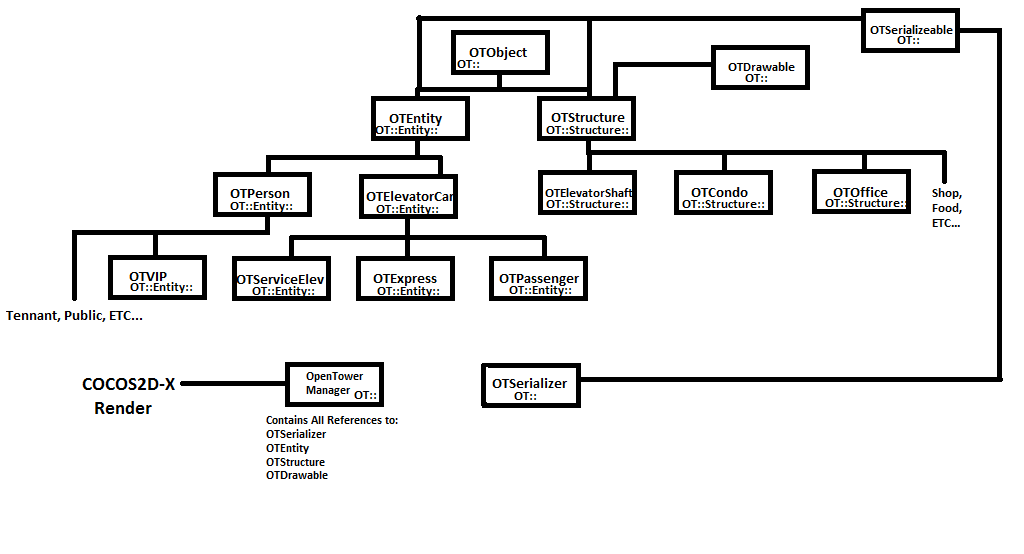
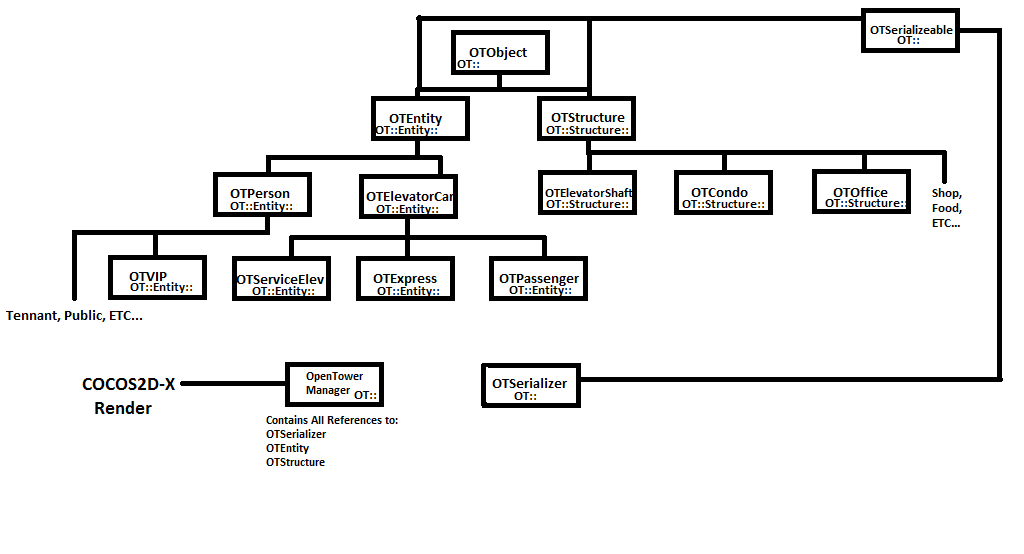
Added base logic for creating structures in sim and render

Changed region(s): [[0.5938, 0.0614, 0.8125, 0.1841], [0.25, 0.8285, 0.3125, 0.8899]]

diff --git a/Classes/TowerScene.cpp b/Classes/TowerScene.cpp
@@ -1,5 +1,4 @@
 #include "TowerScene.h"
-#include "MainMenuScene.h"
 
 USING_NS_CC;
 
@@ -46,23 +45,38 @@ bool Tower::init()
 	this->initTower();
     this->initMouse();
     this->scheduleUpdate();
-
-	//this->runAction(CCFollow::create(_mouseLayer,Rect::ZERO));
     
     return true;
 }
 
-void Tower::update(float delta){
-    
+void Tower::update(float delta)
+{
+	OT::OpenTowerManager::sharedTowerManager()->update(delta);
 }
 
+void Tower::createStructure(Vec2 position)
+{
+	//PROTOTYPE
+	//
+	//Vec2 p = convertFromTowerSceneToTowerLayer(position)
+	//
+	//OT::OpenTowerManager::sharedTowerManager()->addStructure(_currentStructure,p);
+	//
+	//_towerLayer->createObject(type,location)
+}
 
+cocos2d::Vec2 Tower::convertFromTowerSceneToTowerLayer(Vec2 location)
+{
+	//TODO - logic
+	return Vec2::ZERO;
+}
 
 void Tower::initToolPanal()
 {
 	Size visibleSize = Director::getInstance()->getVisibleSize();
 
 	_toolPanalLayer = ToolPanalLayer::create();
+	_toolPanalLayer->setTowerScene(this);
 	_toolPanalLayer->setPosition(visibleSize.width/2,visibleSize.height/2);
     this->addChild(_toolPanalLayer, 9);
 }
@@ -89,8 +103,7 @@ void Tower::initMouse()
     
     this->getEventDispatcher()->addEventListenerWithSceneGraphPriority(tlistener, this);
     
-    _currentStructure = SOFFICE;//tmp - I only have the office structure made atm
-    
+    _currentStructure = SOFFICE;
     _currentStructureSize = getSizeForStructure(_currentStructure);
     
     _mouseLayer = MouseLayer::create();
@@ -99,10 +112,14 @@ void Tower::initMouse()
     this->addChild(_mouseLayer, 10);
 }
 
-void Tower::toolPanalCallback(CCObject *sender)
+void Tower::toolPanalCallback(OTType type)
 {
-	//_currentStructure = type;
-	//_currentStructureSize = getSizeForStructure(_currentStructure);
+	_currentStructure = type;
+	_currentStructureSize = getSizeForStructure(_currentStructure);
+
+	//this->createStructure(_mouseLayer->getPosition());
+
+	CCLOG("TYPE %d",type);
 }
 
 void Tower::onMouseMove(cocos2d::Event* _event)
@@ -119,7 +136,6 @@ void Tower::onMouseMove(cocos2d::Event* _event)
 		_toolPanalLayer->setPosition(Vec2(mPPX-_windowOffsetX,mPPY-_windowOffsetY));
 	}
 
-
     _mouseLayer->setPosition(e->getCursorX()-_currentStructureSize.width/2, _mouseYOffset + e->getCursorY() - _currentStructureSize.height/2);
 }
 void Tower::onMouseUp(cocos2d::Event* _event)
@@ -130,17 +146,16 @@ void Tower::onMouseUp(cocos2d::Event* _event)
 	if(_isMovingToolPanal == true)
 	{
 		_isMovingToolPanal = false;
+
+		return; //if we are moving a window, we dont want to build things!
 	}
-	
-    /* *PROTO*
-     
-     auto manager OpenTowerManager::sharedManager()
-     
-     position = create sprite
-     
-     manager->createStructure(type, positin)
-     
-     */
+
+	float mPPY = e->getCursorY()+_mouseYOffset;
+	float mPPX = e->getCursorX();
+	Vec2 towerP = _towerLayer->getPosition();
+
+	CCLOG("TOWER: (%f, %f) MOUSE: (%f, %f)",towerP.x,towerP.y,mPPX,mPPY);
+
 }
 void Tower::onMouseDown(cocos2d::Event* _event)
 {
@@ -159,9 +174,8 @@ void Tower::onMouseDown(cocos2d::Event* _event)
 			_windowOffsetX = mPPX - tPP.x;
 			_windowOffsetY = mPPY - tPP.y;
 		}
-
-
 }
+
 void Tower::onMouseScroll(cocos2d::Event* _event)
 {
 	EventMouse* e = (EventMouse*)_event;

diff --git a/Classes/OpenTowerManager.h b/Classes/OpenTowerManager.h
@@ -10,7 +10,7 @@
 #include "cocos2d.h"
 #include "OTStructure.h"
 #include "OTEntity.h"
-#include "OTDrawable.h"
+
 
 USING_NS_OT_BEGIN
 
@@ -20,16 +20,21 @@ public:
     ~OpenTowerManager();
     
     static OpenTowerManager* sharedTowerManager();
+	static OTTime inGameTimeOfDay;
     
     void addStructure(OTType type, cocos2d::Vec2 position);
     void removeStructure(OTType type, cocos2d::Vec2 position);
     
+	size_t hash(const char* str);
+
+	void update(float delta);
+
 private:
     static OpenTowerManager* _tower;
     
-    static std::map<cocos2d::Vec2, Structure::OTStructure> structureRegistry;
-    static std::map<OTType, Entity::OTEntity> entityRegistry;
-    static std::vector<OTDrawable> drawableRegistry;
+    static std::map<size_t, Structure::OTStructure> structureRegistry;
+    static std::map<size_t, Entity::OTEntity> entityRegistry;
+
 };
 
 USING_NS_OT_END

diff --git a/Classes/TowerScene.h b/Classes/TowerScene.h
@@ -5,7 +5,10 @@
 #include "MouseLayer.h"
 #include "TowerLayer.h"
 #include "ToolPanalLayer.h"
+#include "MainMenuScene.h"
+
 #include "OTMacros.h"
+#include "OpenTowerManager.h"
 
 class Tower : public cocos2d::Layer
 {
@@ -18,14 +21,15 @@ public:
     
     // a selector callback
     void menuCloseCallback(cocos2d::Ref* pSender);
-	void toolPanalCallback(cocos2d::CCObject *sender);
+	void toolPanalCallback(OTType type);
 
 	void onMouseMove(cocos2d::Event* _event);
 	void onMouseUp(cocos2d::Event* _event);
 	void onMouseDown(cocos2d::Event* _event);
 	void onMouseScroll(cocos2d::Event* _event);
 
-	
+	void createStructure(cocos2d::Vec2 position);
+	cocos2d::Vec2 convertFromTowerSceneToTowerLayer(cocos2d::Vec2 location);
     
     void update(float delta);
     

diff --git a/Classes/ToolPanalLayer.cpp b/Classes/ToolPanalLayer.cpp
@@ -36,19 +36,15 @@ bool ToolPanalLayer::init(){
     
     return true;
 }
-//void ToolPanalLayer::setTowerScene(Tower* tower)
-//{
-//	this->_tower = tower;
-//}
+void ToolPanalLayer::setTowerScene(cocos2d::Layer* tower)
+{
+	this->_tower = tower;
+}
 void ToolPanalLayer::officeCallback(cocos2d::Ref* pSender)
 {
-	//_tower->toolPanalCallback(SOFFICE);
-	
-	/*CCObject* o = new CCObject();
-	o->autorelease();
-
-	CCCallFuncND *callBack = CCCallFuncO::create(Tower, callfuncO_selector(Tower::toolPanalCallback),o);*/
-
+	//had to hack Tower in this way - cannot include Tower.h in this class' header
+	Tower* t = (Tower*)_tower;
+	t->toolPanalCallback(SOFFICE);
 }
 
 void ToolPanalLayer::draw(cocos2d::Renderer *renderer, const cocos2d::Mat4 &transform, uint32_t flags)

diff --git a/Classes/TowerLayer.cpp b/Classes/TowerLayer.cpp
@@ -24,10 +24,24 @@ bool TowerLayer::init(){
     
     sprite->setPosition(Vec2(0,0));
 	this->addChild(sprite);
+	this->scheduleUpdate();
     
     return true;
 }
 
+void TowerLayer::update(float delta){
+
+    //READ from  OT::OpenTowerManager::sharedTowerManager()->inGameTimeOfDay, adjust sprites accordingly
+
+	//TODO - how to store and manage sprites
+	//map with OT::OpenTowerManager::sharedTowerManager()->hash() and sprite?
+}
+
+void TowerLayer::createObject(OTType t, Vec2 location)
+{
+	//create animated sprite here
+	CCLog("");
+}
 
 void TowerLayer::draw(cocos2d::Renderer *renderer, const cocos2d::Mat4 &transform, uint32_t flags)
 {

diff --git a/Classes/OpenTowerManager.cpp b/Classes/OpenTowerManager.cpp
@@ -23,6 +23,12 @@ OpenTowerManager* OpenTowerManager::sharedTowerManager()
     return _tower;
 }
 
+void OpenTowerManager::update(float delta)
+{
+	
+	//WRITE/UPDATE inGameTimeOfDay here
+}
+
 void OpenTowerManager::addStructure(OTType type, cocos2d::Vec2 position)
 {
     
@@ -32,3 +38,7 @@ void OpenTowerManager::removeStructure(OTType type, cocos2d::Vec2 position)
     
 }
 
+size_t OpenTowerManager::hash(const char* str)
+{
+	return (*(size_t*)str)>> 2;
+}

diff --git a/Classes/ToolPanalLayer.h b/Classes/ToolPanalLayer.h
@@ -16,12 +16,12 @@ public:
 
 	void officeCallback(cocos2d::Ref* pSender);
 
-	//void setTowerScene(Tower* tower);
+	void setTowerScene(cocos2d::Layer* tower);
     
     // implement the "static create()" method manually
     CREATE_FUNC(ToolPanalLayer);
 protected:
     void draw(cocos2d::Renderer *renderer, const cocos2d::Mat4 &transform, uint32_t flags);
-    //Tower* _tower;
+    cocos2d::Layer* _tower;
 };
 #endif

diff --git a/Classes/OTStructure.h b/Classes/OTStructure.h
@@ -8,15 +8,14 @@
 
 #include "OTObject.h"
 #include "OTSerializable.h"
-#include "OTDrawable.h"
+
 
 USING_NS_STRUCTURE_BEGIN
 
-class OTStructure : public OTObject, OTSerializable, OTDrawable{
+class OTStructure : public OTObject, OTSerializable{
 public:
     virtual void save(OT::OTObjectBlob *state);
 	virtual void load(OT::OTObjectBlob *state);
-    void animate(OTTime time);
     int type;
 };
 

diff --git a/Classes/TowerLayer.h b/Classes/TowerLayer.h
@@ -21,6 +21,9 @@ public:
         
     // implement the "static create()" method manually
     CREATE_FUNC(TowerLayer);
+
+	void createObject(OTType t, cocos2d::Vec2 location);
+	void update(float delta);
 protected:
     void draw(cocos2d::Renderer *renderer, const cocos2d::Mat4 &transform, uint32_t flags);
 };

diff --git a/Classes/OTOffice.h b/Classes/OTOffice.h
@@ -10,7 +10,6 @@ public:
 	~OTOffice(void);
 	virtual void save(OT::OTObjectBlob *state);
 	virtual void load(OT::OTObjectBlob *state);
-    void animate(OTTime time);
     int type;
 };
 

diff --git a/Classes/OTOffice.cpp b/Classes/OTOffice.cpp
@@ -17,6 +17,4 @@ void OTOffice::save(OT::OTObjectBlob *state)
 void OTOffice::load(OT::OTObjectBlob *state)
 {
 }
-void OTOffice::animate(OTTime time)
-{
-}
+

diff --git a/Classes/OTMacros.h b/Classes/OTMacros.h
@@ -25,6 +25,8 @@
 #define TOOLPANAL_HEIGHT 200
 #define TOOLPANAL_WIDTH 96
 
+
+
 enum OTType{
     OBJECT      =0,
     ENTITY      =1,
